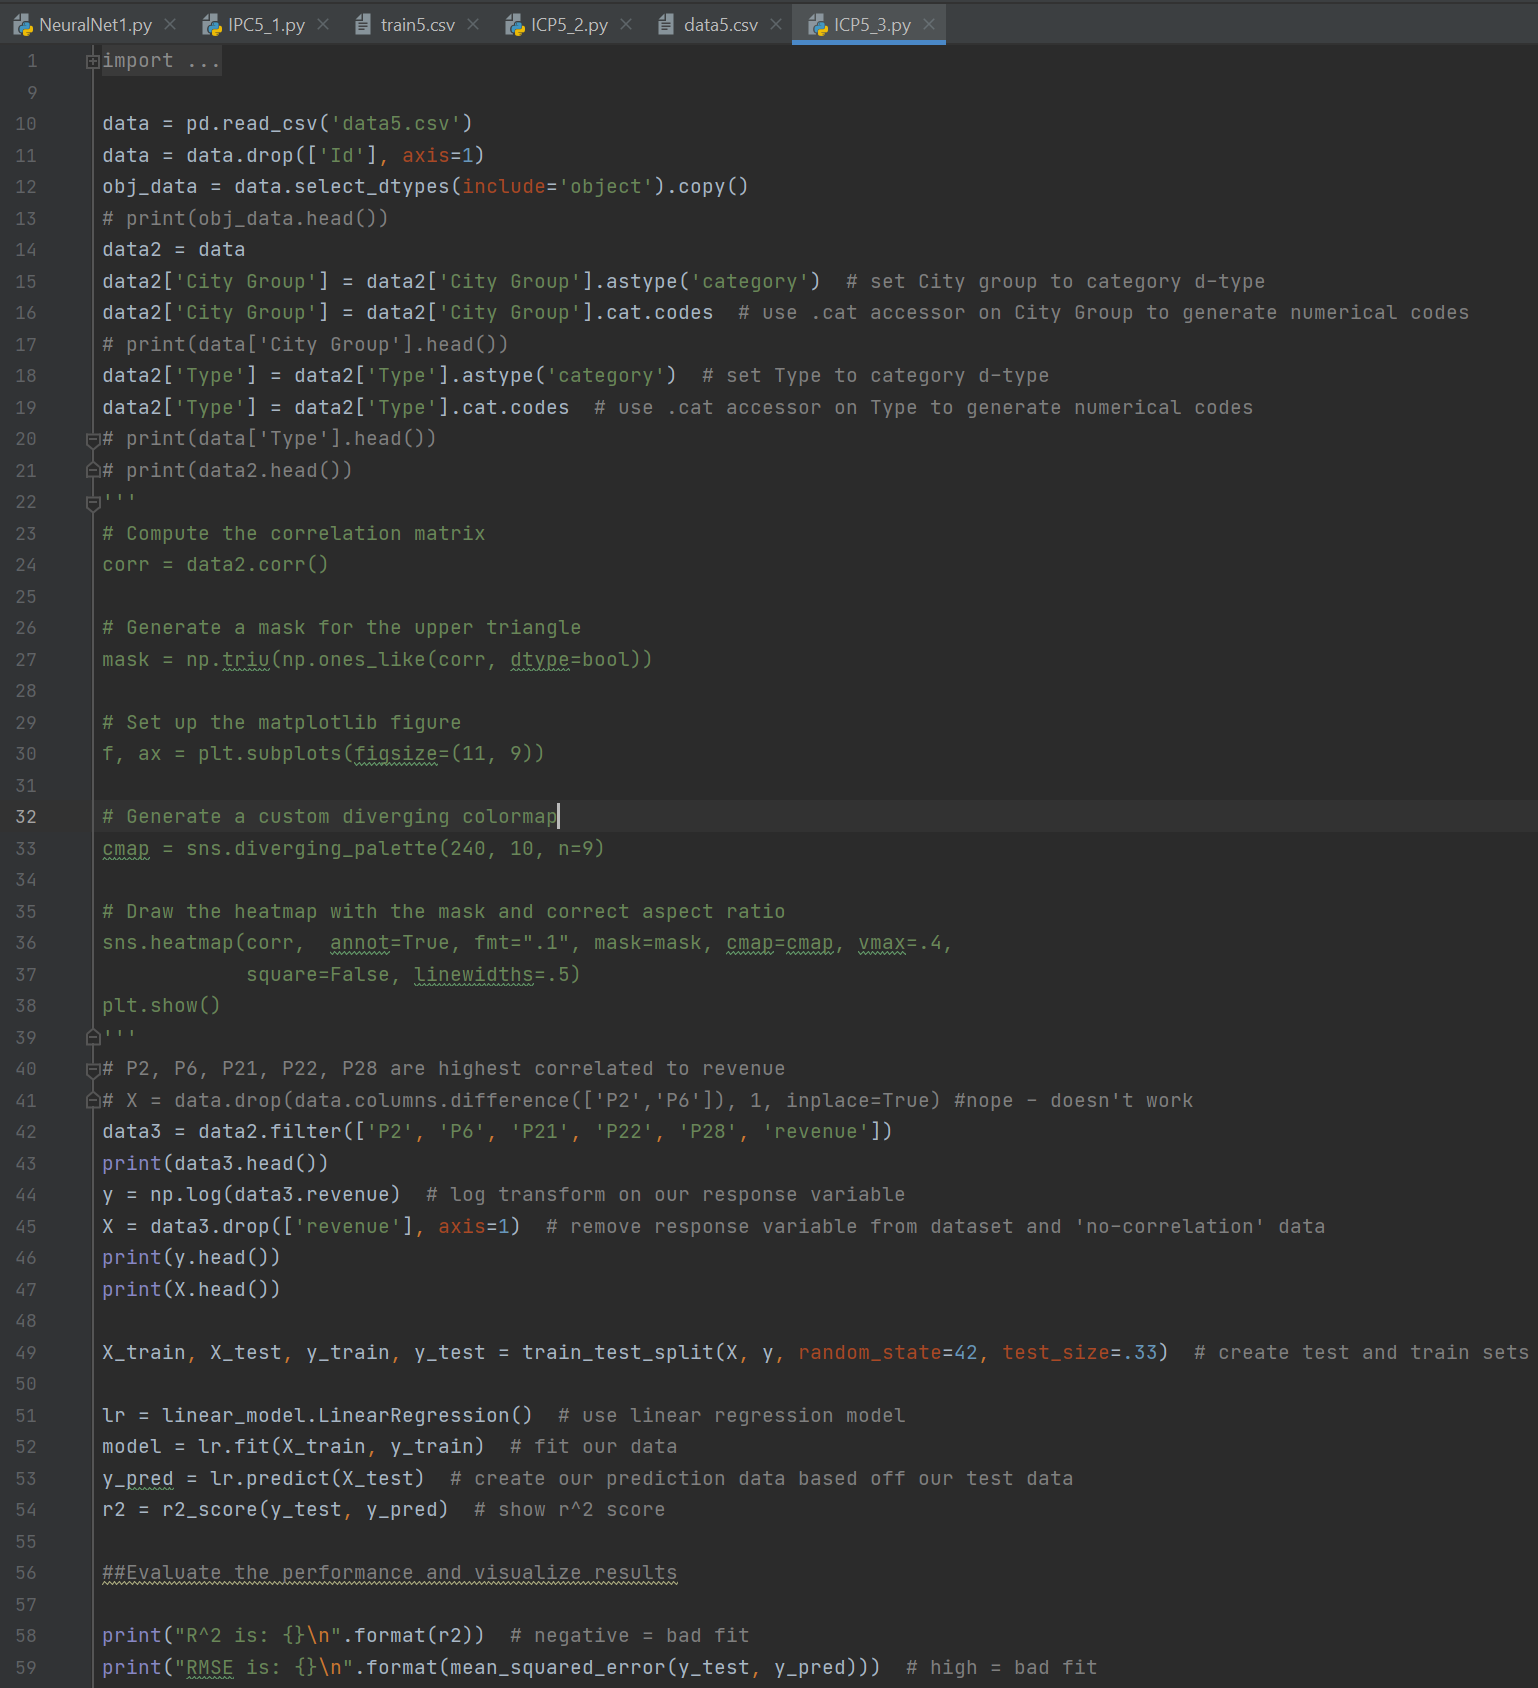
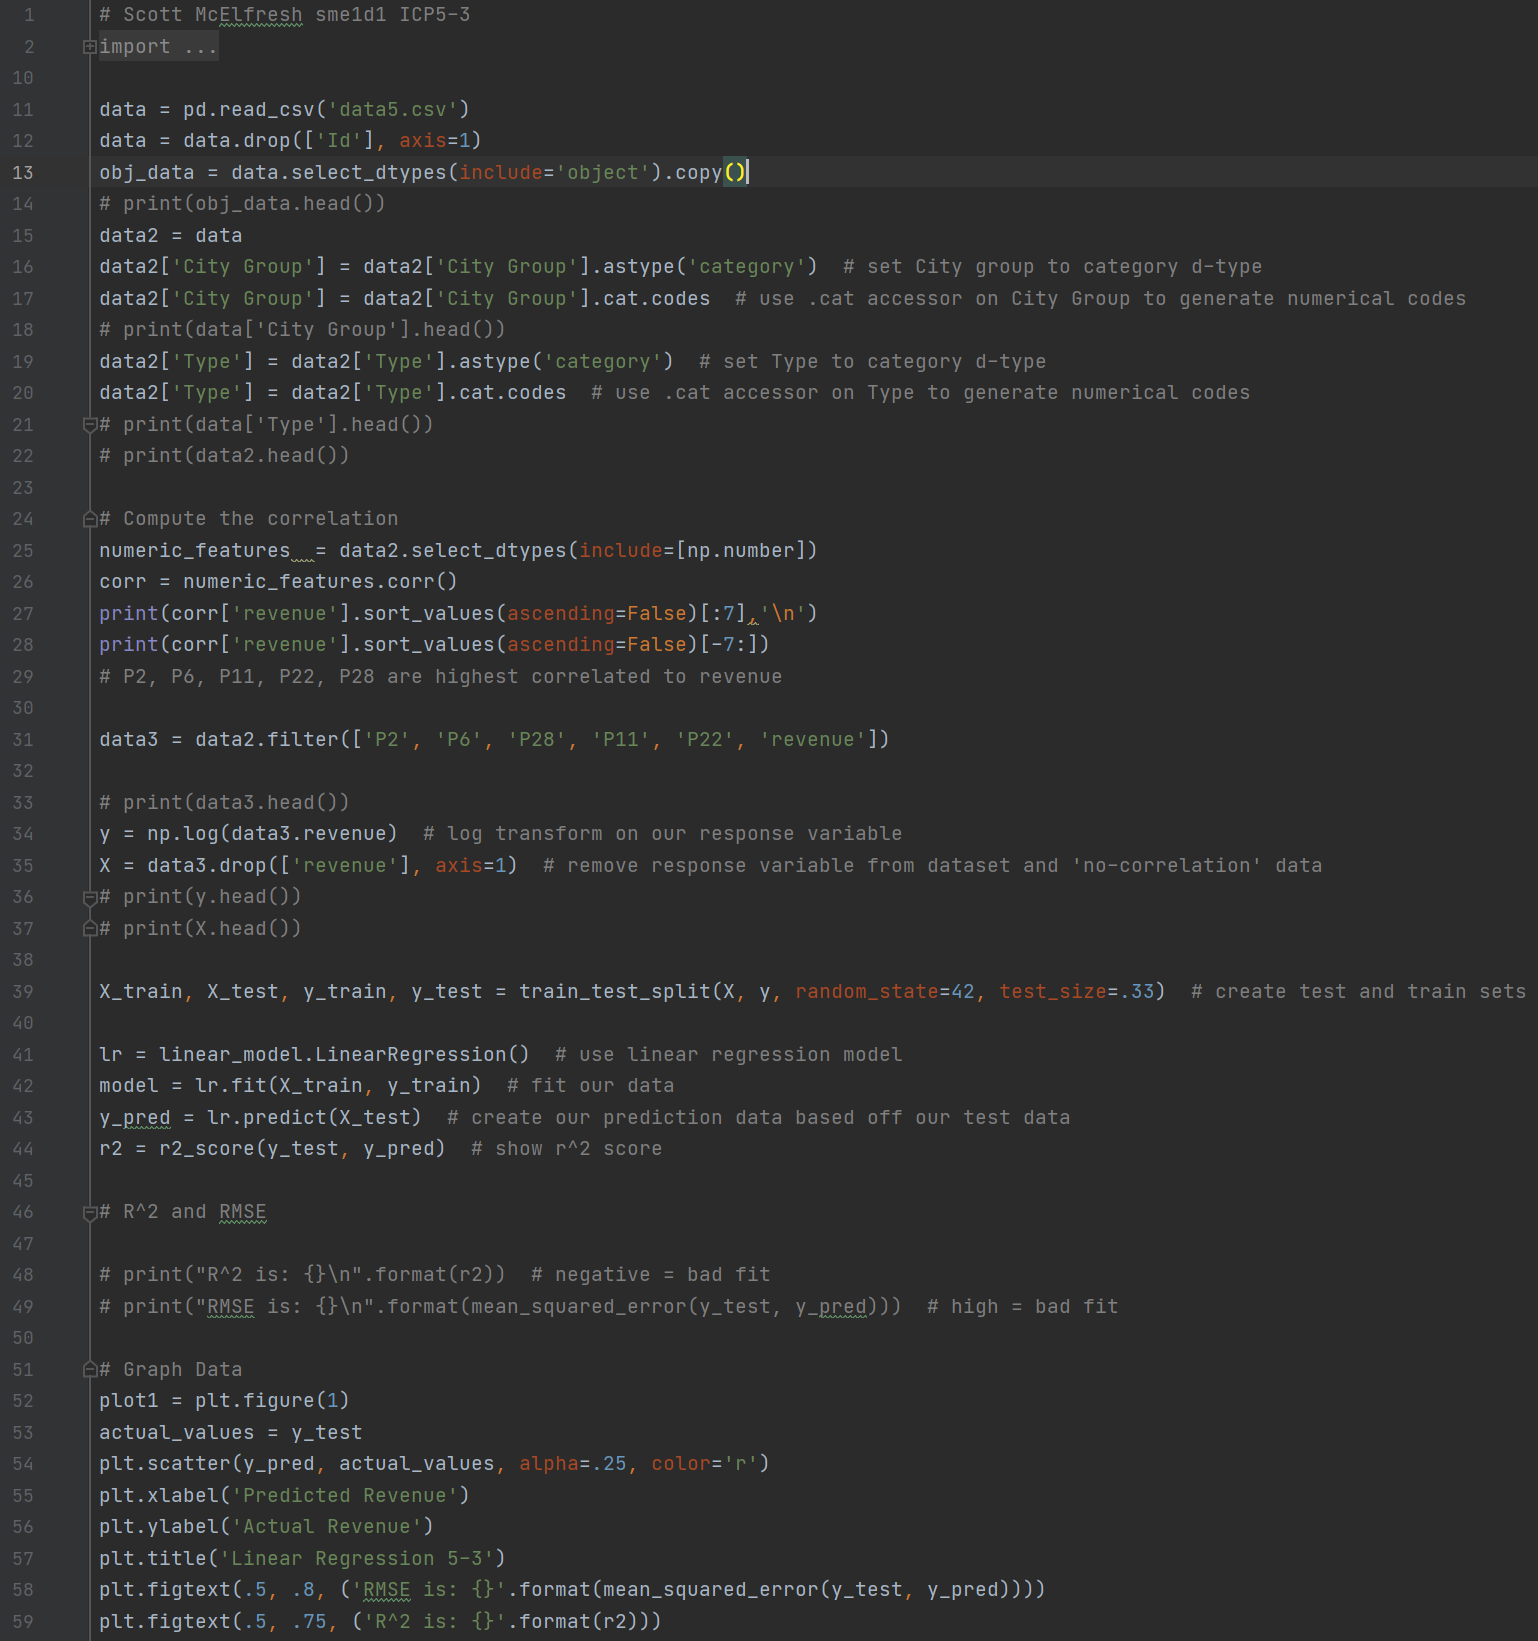
added plots and checked for revenue skew

diff --git a/ICP/ICP5/source/ICP5_3.py b/ICP/ICP5/source/ICP5_3.py
@@ -1,3 +1,4 @@
+# Scott McElfresh sme1d1 ICP5-3
 import pandas as pd
 import numpy as np
 import matplotlib.pyplot as plt
@@ -19,27 +20,16 @@ data2['Type'] = data2['Type'].astype('category')  # set Type to category d-type
 data2['Type'] = data2['Type'].cat.codes  # use .cat accessor on Type to generate numerical codes
 # print(data['Type'].head())
 # print(data2.head())
-'''
-# Compute the correlation matrix
-corr = data2.corr()
 
-# Generate a mask for the upper triangle
-mask = np.triu(np.ones_like(corr, dtype=bool))
+# Compute the correlation
+numeric_features  = data2.select_dtypes(include=[np.number])
+corr = numeric_features.corr()
+print(corr['revenue'].sort_values(ascending=False)[:7],'\n')
+print(corr['revenue'].sort_values(ascending=False)[-7:])
+# P2, P6, P11, P22, P28 are highest correlated to revenue
 
-# Set up the matplotlib figure
-f, ax = plt.subplots(figsize=(11, 9))
+data3 = data2.filter(['P2', 'P6', 'P28', 'P11', 'P22', 'revenue'])
 
-# Generate a custom diverging colormap
-cmap = sns.diverging_palette(240, 10, n=9)
-
-# Draw the heatmap with the mask and correct aspect ratio
-sns.heatmap(corr,  annot=True, fmt=".1", mask=mask, cmap=cmap, vmax=.4,
-            square=False, linewidths=.5)
-plt.show()
-'''
-# P2, P6, P21, P22, P28 are highest correlated to revenue
-# X = data.drop(data.columns.difference(['P2','P6']), 1, inplace=True) #nope - doesn't work
-data3 = data2.filter(['P2', 'P6', 'P21', 'P22', 'P28', 'revenue'])
 # print(data3.head())
 y = np.log(data3.revenue)  # log transform on our response variable
 X = data3.drop(['revenue'], axis=1)  # remove response variable from dataset and 'no-correlation' data

diff --git a/ICP/ICP5/source/ICP5_2.py b/ICP/ICP5/source/ICP5_2.py
@@ -1,3 +1,4 @@
+# Scott McElfresh sme1d1 ICP 5-2
 import pandas as pd
 import numpy as np
 import matplotlib.pyplot as plt
@@ -28,7 +29,16 @@ data2['Type'] = data2['Type'].cat.codes  # use .cat accessor on Type to generate
 # print(data['Type'].head())
 # print(data2.head())
 
+# Check if revenue is skewed and need transformation
+plot3 = plt.figure(3)
+plt.title('Revenue Skew')
+plt.hist(data2.revenue)
+
+# Perform log transform and plot
 y = np.log(data2.revenue)  # log transform on our response variable
+plot4 = plt.figure(4)
+plt.title('Revenue Log Transform')
+plt.hist(y)
 X = data2.drop(['revenue', 'Id'], axis=1)  # remove response variable from dataset and 'no-correlation' data
 
 X_train, X_test, y_train, y_test = train_test_split(X, y, random_state=42, test_size=.33)  # create test and train sets
